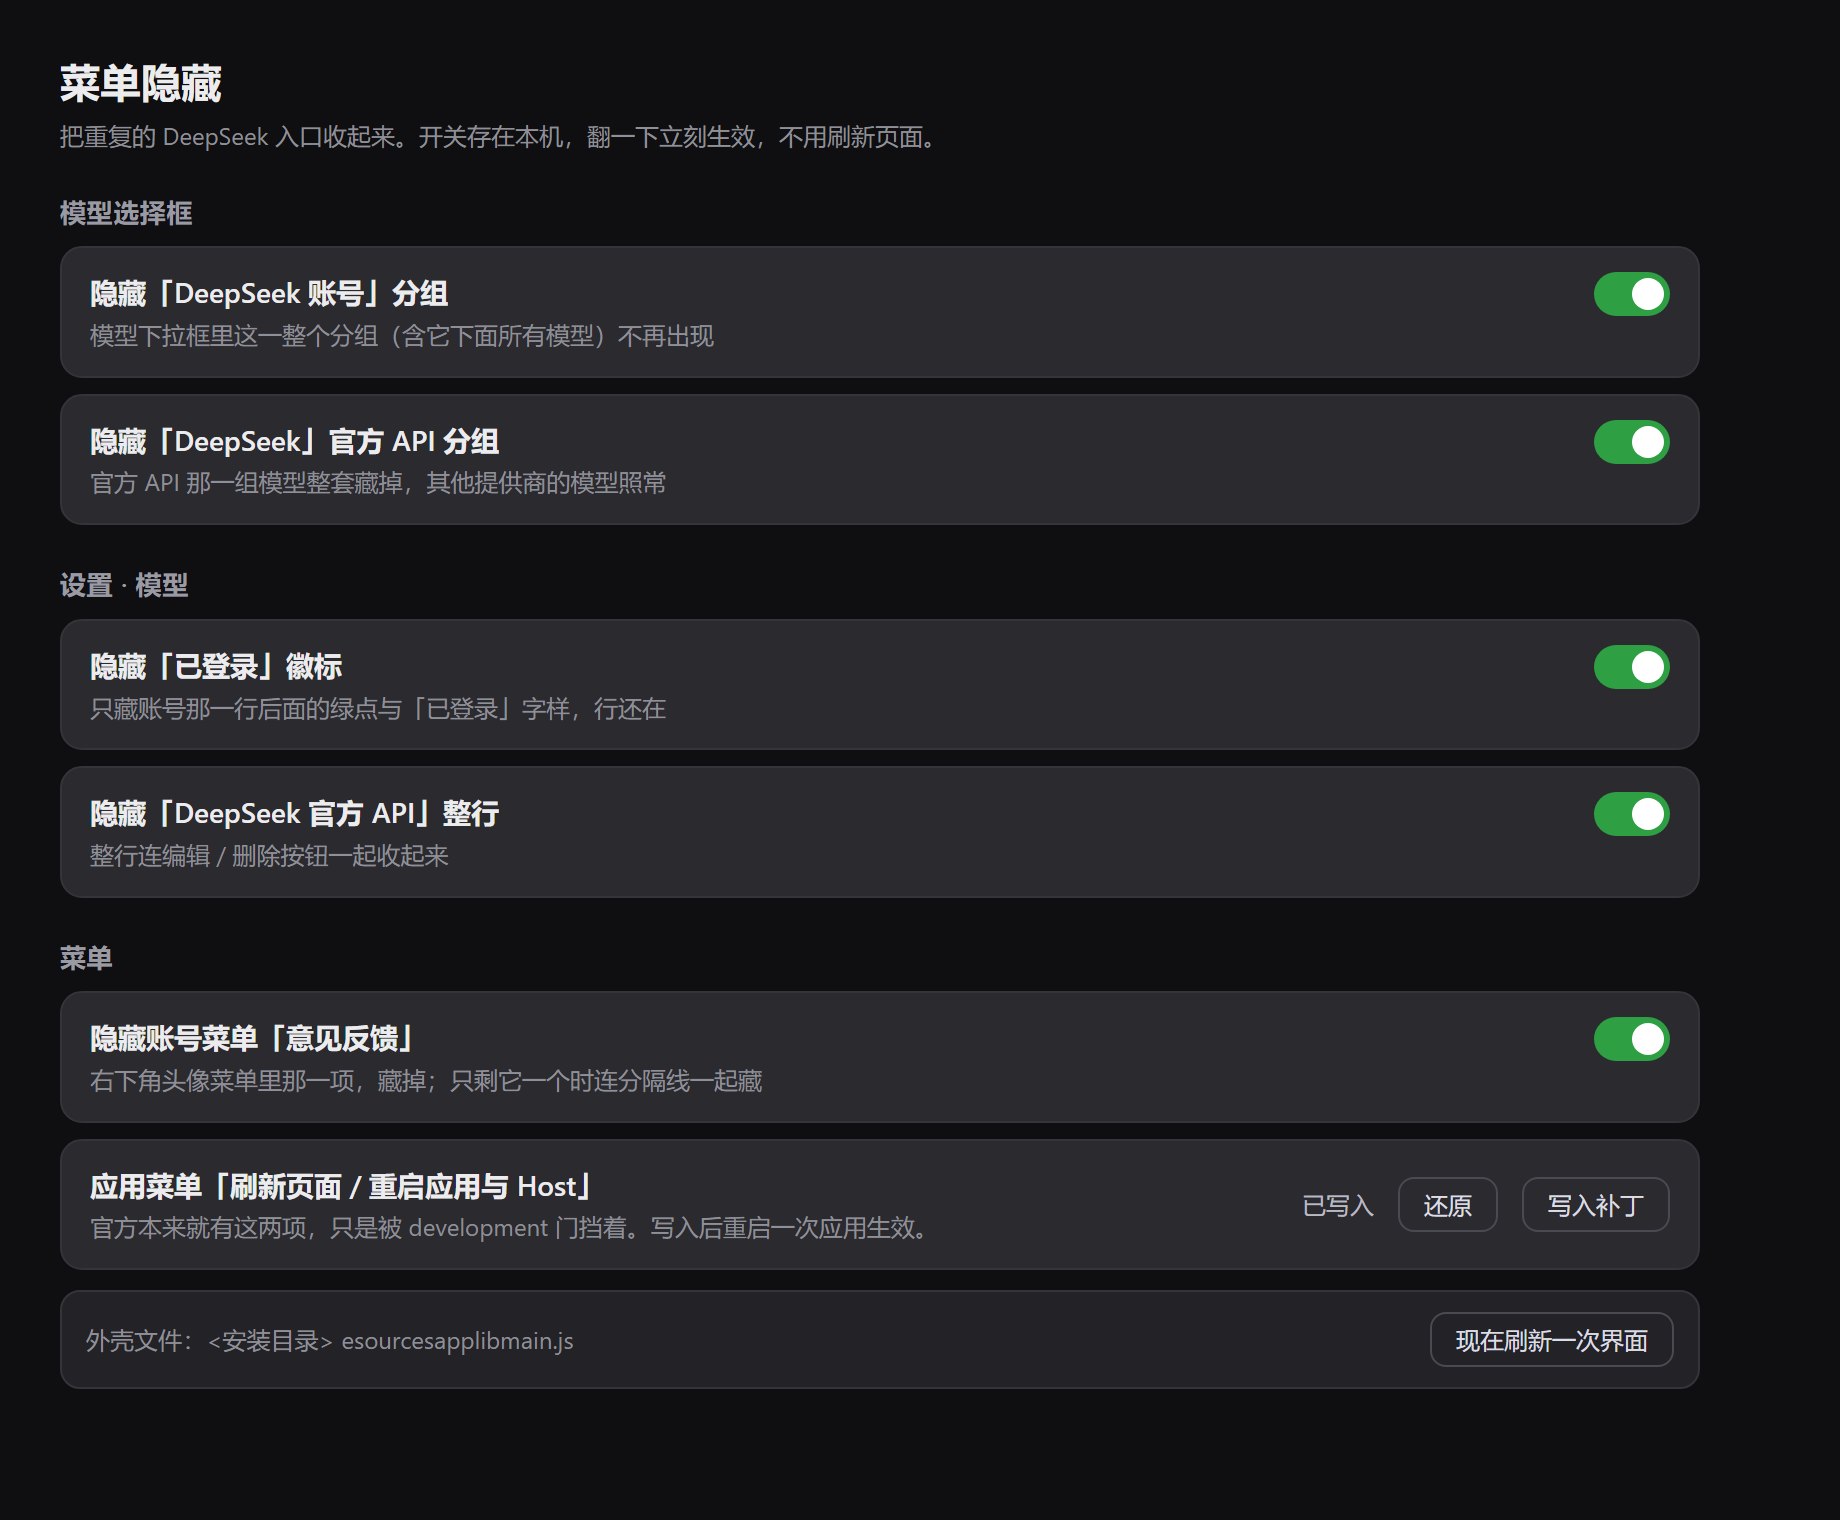
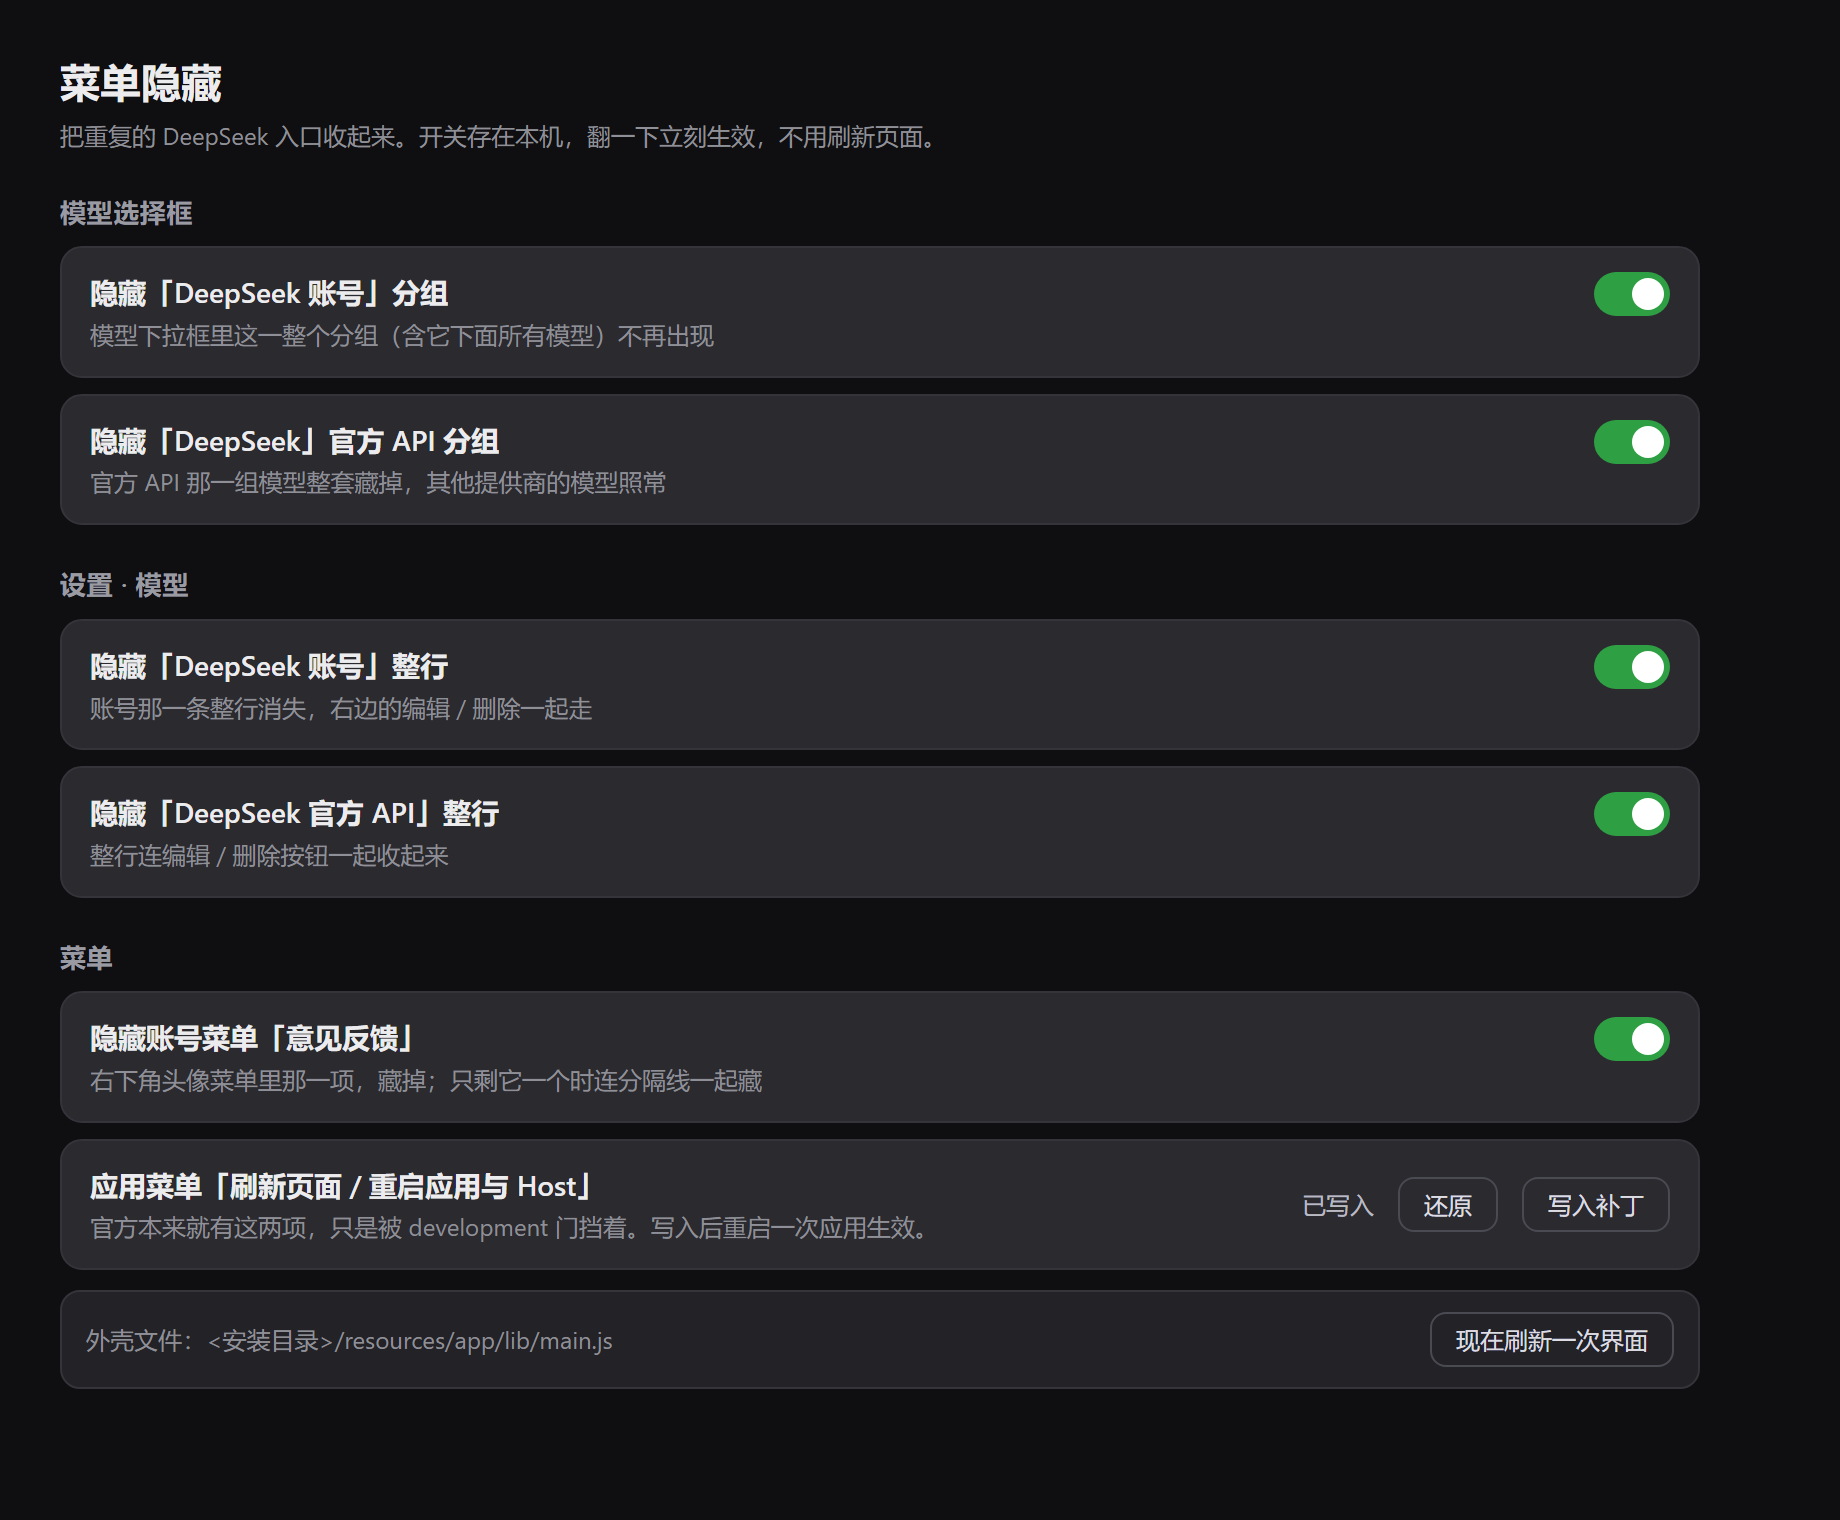
fix: 隐藏不再闪；「DeepSeek 账号」改为整行隐藏（0.1.2）

Changed region(s): [[0.062, 0.4329, 0.3408, 0.4947], [0.1859, 0.8658, 0.3408, 0.8967]]

diff --git a/client.js b/client.js
@@ -53,8 +53,8 @@ window.__ModuleLoader__.load({
 				accountGroupHint: "模型下拉框里那个带账号图标的分组，连它的模型一起藏。",
 				officialGroupLabel: "隐藏「DeepSeek」（官方 API）分组",
 				officialGroupHint: "模型下拉框里官方 API 那一组。两组都关掉，下拉框会只剩第三方模型。",
-				signedBadgeLabel: "隐藏「DeepSeek 账号」后面的「已登录」",
-				signedBadgeHint: "只藏那颗绿点和「已登录」，账号那一行本身还在。",
+				accountRowLabel: "隐藏「DeepSeek 账号」整行",
+				accountRowHint: "设置 · 模型里账号那一条整行消失，右边的编辑 / 删除一起走 —— 不是只藏「已登录」三个字。",
 				officialRowLabel: "隐藏「DeepSeek」官方 API 那一行",
 				officialRowHint: "设置 · 模型里只留一个 DeepSeek 账号，不再出现第二个 DeepSeek 行。整行藏掉后，改官方 API 的入口也一起没了。",
 				feedbackLabel: "隐藏账号菜单里的「意见反馈」",
@@ -87,8 +87,8 @@ window.__ModuleLoader__.load({
 				accountGroupHint: "The account group at the top of the model dropdown, models included.",
 				officialGroupLabel: "Hide the \"DeepSeek\" (official API) group",
 				officialGroupHint: "The official API group in the model dropdown. Hiding both leaves only third-party models.",
-				signedBadgeLabel: "Hide the \"Signed in\" badge on \"DeepSeek Account\"",
-				signedBadgeHint: "Only the dot and the label go; the account row stays.",
+				accountRowLabel: "Hide the whole \"DeepSeek Account\" row",
+				accountRowHint: "The entire row disappears from the Models page, buttons included — not just the Signed in text.",
 				officialRowLabel: "Hide the \"DeepSeek\" official API row",
 				officialRowHint: "Leaves a single account row on the Models page. The row is the only entry point for editing the official API key.",
 				feedbackLabel: "Hide \"Feedback\" in the account menu",
@@ -118,7 +118,7 @@ window.__ModuleLoader__.load({
 		const DEFAULTS = {
 			accountGroup: true,
 			officialGroup: true,
-			signedInBadge: true,
+			accountRow: true,
 			officialRow: true,
 			feedback: true,
 		};
@@ -217,10 +217,9 @@ window.__ModuleLoader__.load({
 					continue;
 				}
 				if (!matches(ACCOUNT_ROW_LABELS, text)) continue;
-				setHidden(row, false);
-				for (const badge of row.querySelectorAll(ACCOUNT_BADGE_SELECTOR)) {
-					setHidden(badge, prefs.signedInBadge === true);
-				}
+				setHidden(row, prefs.accountRow === true);
+				// 旧版只藏过徽标，升级上来时把残留的 display:none 还回去。
+				for (const badge of row.querySelectorAll(ACCOUNT_BADGE_SELECTOR)) setHidden(badge, false);
 			}
 		}
 
@@ -253,22 +252,19 @@ window.__ModuleLoader__.load({
 
 		// ── §5 观察器 ─────────────────────────────────────────────────────────
 		let observer = null;
-		let pending = 0;
 
 		/**
-		 * 合并成一帧后再扫：菜单是点开才挂到 body 上的（portal），设置页是切过去才渲染的，
-		 * 一律走 childList。attributes 不观察 —— 否则我们自己设 display 会触发自己形成死循环。
+		 * 回调里同步扫，不排队。MutationObserver 的回调是微任务，跑在浏览器绘制之前，
+		 * 所以节点一挂上就被藏掉，不会出现「先画出来、再消失」的那一下。
+		 * 早先版本用 120ms 定时器合并，等于把工作推到下一帧之后 —— 那正是闪烁的来源。
+		 * 只观察 childList：自己设 display 是 attributes 变动，观察了会自触死循环。
 		 */
-		function scheduleSweep() {
-			if (pending !== 0) return;
-			pending = window.setTimeout(() => {
-				pending = 0;
-				try {
-					sweep();
-				} catch (error) {
-					console.error("[dsh-menu-hidden] sweep failed", error);
-				}
-			}, 120);
+		function onMutations() {
+			try {
+				sweep();
+			} catch (error) {
+				console.error("[dsh-menu-hidden] sweep failed", error);
+			}
 		}
 
 		function startObserver() {
@@ -280,7 +276,7 @@ window.__ModuleLoader__.load({
 				document.addEventListener("DOMContentLoaded", () => { startObserver(); }, { once: true });
 				return;
 			}
-			observer = new MutationObserver(scheduleSweep);
+			observer = new MutationObserver(onMutations);
 			observer.observe(root, { childList: true, subtree: true });
 			sweep();
 		}
@@ -289,10 +285,6 @@ window.__ModuleLoader__.load({
 			if (observer !== null) {
 				observer.disconnect();
 				observer = null;
-			}
-			if (pending !== 0) {
-				window.clearTimeout(pending);
-				pending = 0;
 			}
 			for (const element of document.querySelectorAll("[" + MARK + "]")) setHidden(element, false);
 		}
@@ -315,7 +307,16 @@ window.__ModuleLoader__.load({
 			".dshmh-btn:hover:not(:disabled){background:var(--dsw-alias-bg-layer-2,rgba(127,127,127,.12))}",
 			".dshmh-btn:disabled{opacity:.5;cursor:default}",
 			".dshmh-btn:focus-visible{outline:2px solid var(--dsw-focus-ring-color,#4d6bfe);outline-offset:2px}",
+			"html[data-dshmh-account-row=\"1\"] li[class*=\"_rowCard\"]:has([class*=\"_accountStatus\"]){display:none!important}",
 		].join("");
+
+		/** 账号行首屏预藏：CSS 在第一次绘制前就生效，不用等 JS 跑。 */
+		function syncPreHide() {
+			const html = document.documentElement;
+			if (html === null || html === undefined) return;
+			if (prefs.accountRow === true) html.setAttribute("data-dshmh-account-row", "1");
+			else html.removeAttribute("data-dshmh-account-row");
+		}
 
 		function injectStyle() {
 			if (typeof document === "undefined") return;
@@ -395,6 +396,7 @@ window.__ModuleLoader__.load({
 			const toggle = (key) => (next) => {
 				prefs[key] = next === true;
 				savePrefs();
+				syncPreHide();
 				sweep();
 				setTick((n) => n + 1);
 			};
@@ -437,7 +439,7 @@ window.__ModuleLoader__.load({
 			}));
 
 			const settingRows = [
-				["signedInBadge", "signedBadgeLabel", "signedBadgeHint"],
+				["accountRow", "accountRowLabel", "accountRowHint"],
 				["officialRow", "officialRowLabel", "officialRowHint"],
 			].map(([key, label, hint]) => React.createElement(ToggleRow, {
 				key,
@@ -516,6 +518,7 @@ window.__ModuleLoader__.load({
 		function apply(ctx) {
 			loadPrefs();
 			injectStyle();
+			syncPreHide();
 
 			const slots = ctx.get("slots");
 			const locale = ctx.get("locale");

diff --git a/README.md b/README.md
@@ -82,10 +82,16 @@ dsh plugin --profile web remove dsh-menu-hidden
 |---|---|---|---|
 | 1 | 模型选择框里隐藏「DeepSeek 账号」分组 | 客户端 DOM：`section[data-menu-group]` 按标题文字整组隐藏 | 立刻 |
 | 2 | 模型选择框里隐藏「DeepSeek」（官方 API）分组 | 同上 | 立刻 |
-| 3 | 设置 · 模型里隐藏「DeepSeek 账号」后面的「已登录」 | 客户端 DOM：只隐藏 `[class*="_accountStatus"]` 徽标，行还在 | 立刻 |
+| 3 | 设置 · 模型里隐藏「DeepSeek 账号」**整行** | 客户端 DOM：按行名隐藏整个 `<li>`（编辑 / 删除一起走）；首屏另用 `li[class*="_rowCard"]:has([class*="_accountStatus"])` 的 CSS 预藏，绘制前就没了 | 立刻 |
 | 4 | 设置 · 模型里隐藏「DeepSeek」官方 API 那一行 | 客户端 DOM：隐藏该行 `<li>` | 立刻 |
 | 5 | 应用菜单「退出」上方加「刷新页面」「重启应用与 Host」 | 宿主半：给 `lib/main.js` 的 `applicationItems()` 打开官方留着的 `development` 门（幂等、留备份 `.menuhidden.bak`、可还原） | 改完**重启一次应用** |
 | 6 | 账号菜单里隐藏「意见反馈」 | 客户端 DOM：按文字认菜单项，藏掉（只剩它一个时连容器一起藏） | 立刻 |
+
+## 为什么不会闪
+
+隐藏动作走 `MutationObserver`，回调里**同步**扫一遍：MutationObserver 的回调是微任务，浏览器在一帧的微任务队列清空之后才绘制，所以节点挂进 DOM 的那一刻就被打上 `display:none`，肉眼看不到「先出现、再消失」。0.1.0 用 `setTimeout(..., 120)` 合并扫描，等于把工作推到下一帧之后，这就是闪烁的来源。
+
+账号那一行另外叠了一层保险：插件往 `document.documentElement` 挂 `data-dshmh-account-row="1"`，配一条 `li[class*="_rowCard"]:has([class*="_accountStatus"]){display:none!important}` 的 CSS —— 样式在第一次绘制前就生效，连 JS 都不用等。
 
 ## 为什么第 5 条要动外壳文件
 
